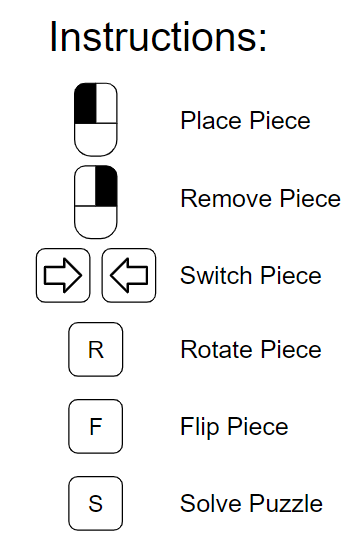
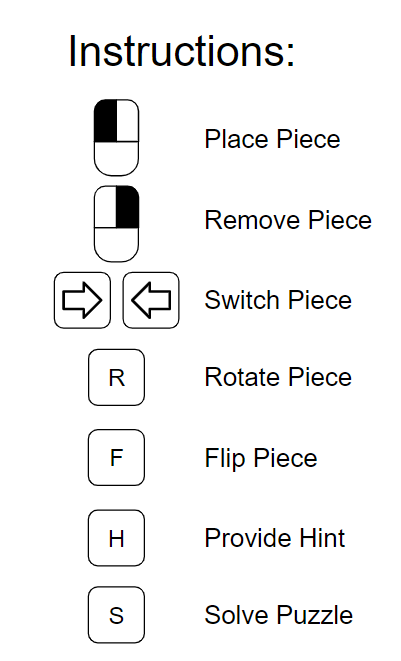
hint button

diff --git a/gui.py b/gui.py
@@ -1,6 +1,7 @@
 from tangram import TangramSolver
 from setup import *
 import sys
+import time
 
 class TangramGame(TangramSolver):
 
@@ -19,6 +20,10 @@ class TangramGame(TangramSolver):
         self.piece_idx_pointer = 0
 
         self.game_state = "start"
+
+        self.start_time = time.time()
+        self.pieces_placed = 0
+        self.pieces_removed = 0
 
         self.draw_buffer_event = pg.USEREVENT + 1
         pg.time.set_timer(self.draw_buffer_event, 100)
@@ -246,6 +251,8 @@ class TangramGame(TangramSolver):
 
         if legal:
             self.board = new_board
+            self.pieces_placed += 1
+            
             # Safely remove piece from unused list
             if self.piece_idx_pointer < len(self.unused_pieces):
                 self.unused_pieces.remove(self.unused_pieces[self.piece_idx_pointer])
@@ -272,6 +279,7 @@ class TangramGame(TangramSolver):
             
             # Clear piece from board
             self.clear_piece(val, board)
+            self.pieces_removed += 1
             
             # Update current piece
             if self.unused_pieces:
@@ -414,6 +422,12 @@ class TangramGame(TangramSolver):
         else:
             self.game_state = "failure"
 
+    def display_hint(self):
+        elapsed_time = time.time() - self.start_time
+        print(f"Game has been open for {elapsed_time:.2f} seconds.")
+        print(f"Pieces placed: {self.pieces_placed}")
+        print(f"Pieces removed: {self.pieces_removed}")
+
     #####################################################################
     # Main runner method
     #####################################################################
@@ -485,6 +499,10 @@ class TangramGame(TangramSolver):
                     # solve puzzle
                     if event.key == pg.K_s:
                         self.display_solution()
+
+                    # provide hint
+                    if event.key == pg.K_h:
+                        self.display_hint()
 
                 # draw preview of placement of the current tile
                 if event.type == self.draw_buffer_event:
